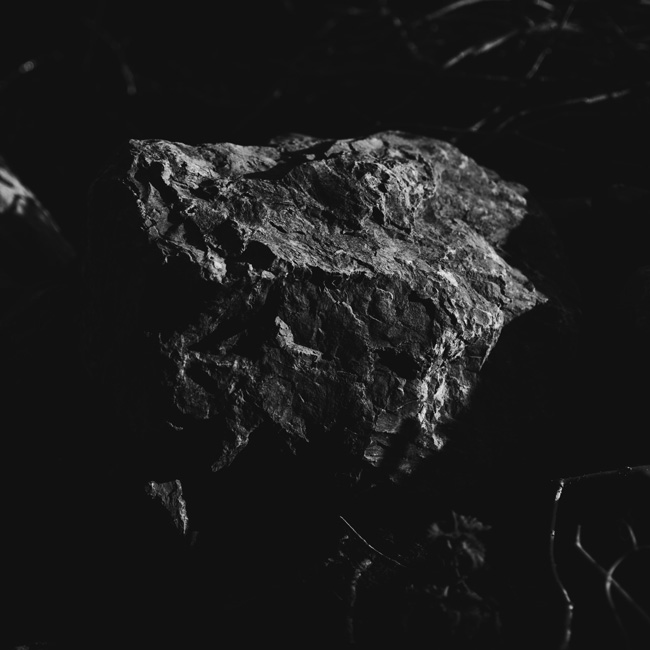
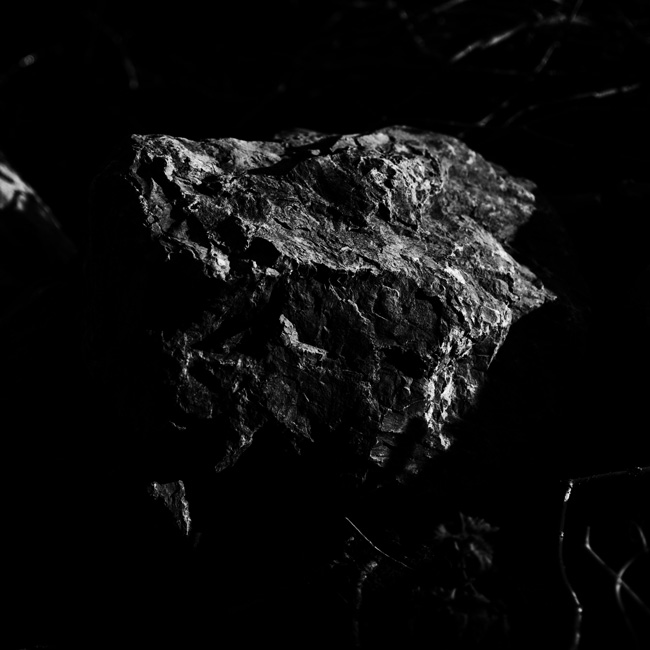
add/edit score section of site, replace rock image with one with better contrast.

diff --git a/index.html b/index.html
@@ -12,9 +12,9 @@
   <div class="container">
     <header>
       <h1>Rock Paper Scissors</h1>
-      <div class="score">
-        <div class="playerScore">Player: <span id='playerScore'>0</span></div>
-        <div class="computerScore">Computer: <span id="computerScore">0</span></div>
+      <div class="scoreSection">
+        <div class="playerScore scoreParent">Player: <span id='playerScore' class='score'>2</span></div>
+        <div class="computerScore scoreParent">Computer: <span id="computerScore" class='score'>0</span></div>
       </div>
     </header>
     <main>
